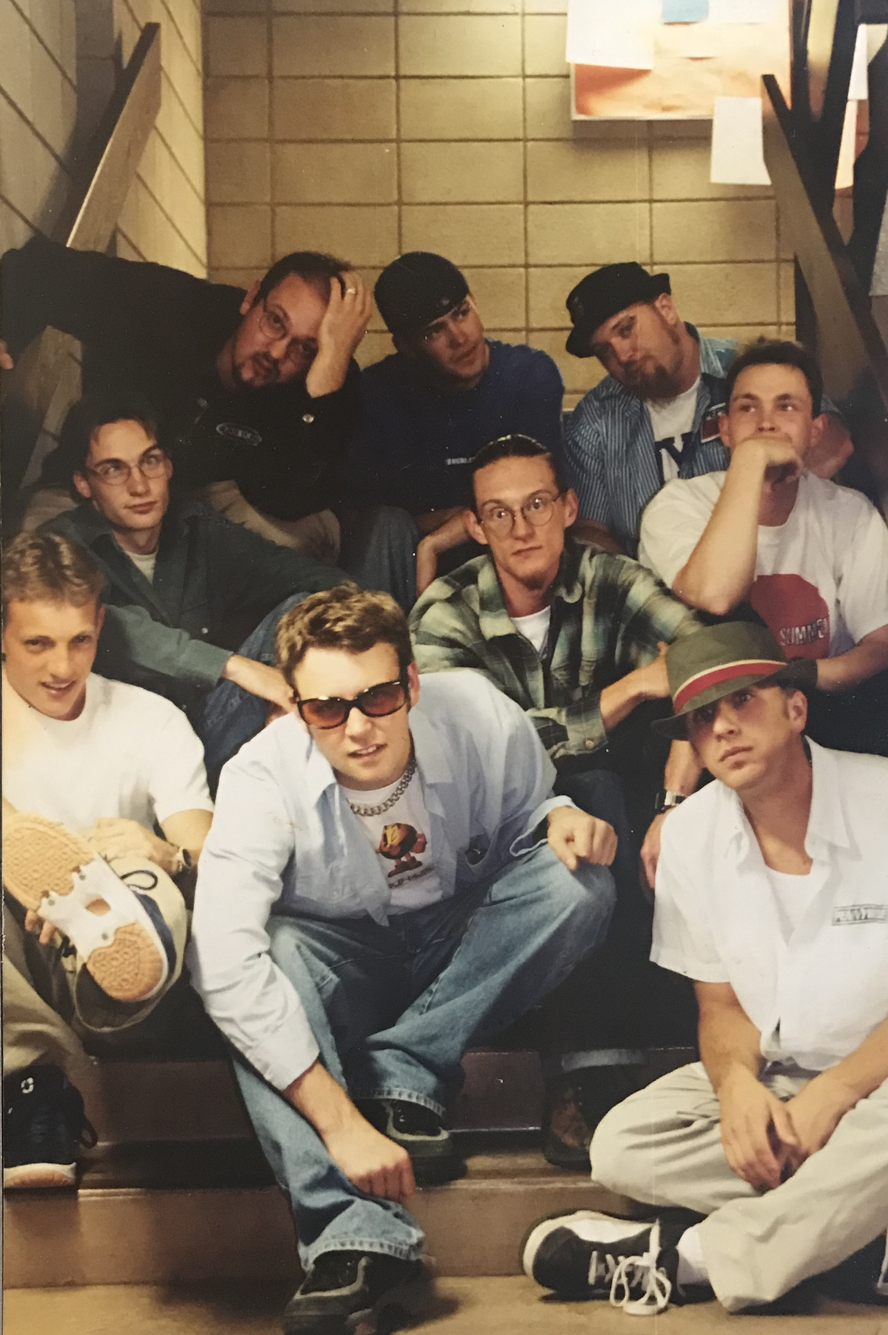
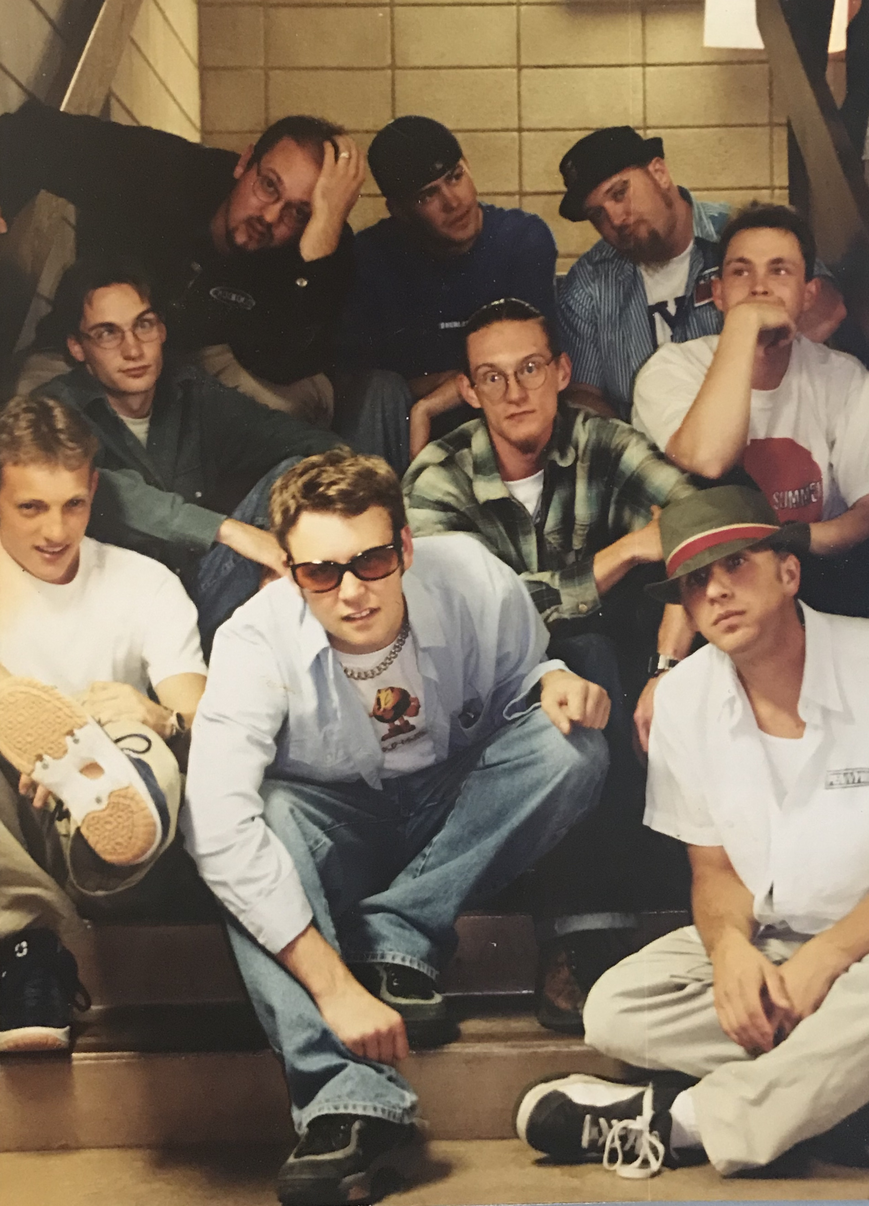
Update photo

diff --git a/index.html b/index.html
@@ -68,7 +68,7 @@
 				</div>
 				<div class="row center">
 					<div class="col s12 m12 l4">
-						<img class="responsive-img" src="./img/charliegirls2.jpg" />
+						<img class="material-boxed responsive-img" src="./img/groupstairs.jpg" />
 					</div>
 					<div class="col s12 m12 l8 ">
 						<h5 class="center">Laramie Wyoming's Premier <b>Ska Core</b></h5>

diff --git a/css/style.css b/css/style.css
@@ -31,6 +31,7 @@ body {
 
 .promo {
 	width: 100%;
+	height: auto;
 }
 
 #mainText {
